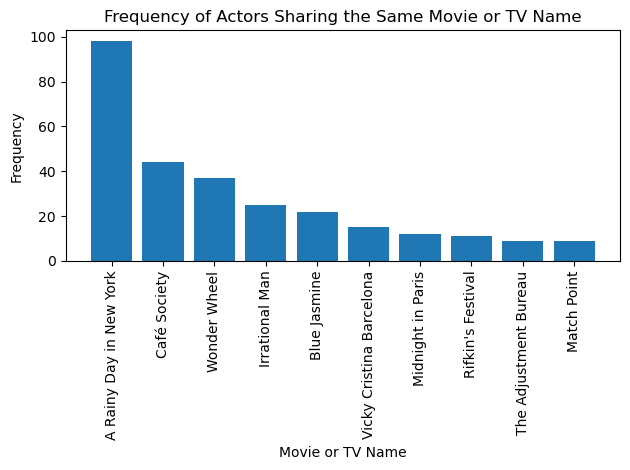
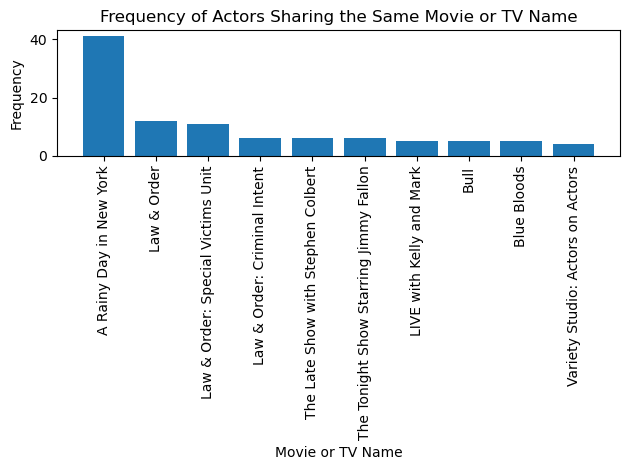
Built site for gh-pages

Changed region(s): [[0.0, 0.0, 0.9651, 0.983], [0.0603, 0.4468, 0.0905, 0.4766]]

diff --git a/posts/Web-Scraping/HW2.html b/posts/Web-Scraping/HW2.html
@@ -199,7 +199,7 @@ pre > code.sourceCode > span > a:first-child::before { text-decoration: underlin
 <p>In this post, I will be presenting my Scrapy project that is used to scrape my favoriate movie: A Rainy Day in New York - directed by Woody Allen.</p>
 <p>Please click the following link to see my project repository:</p>
 <p>// Note: The following code is used to display the hyperlink</p>
-<div id="e387916b" class="cell" data-execution_count="8">
+<div id="b509948c" class="cell" data-execution_count="8">
 <div class="sourceCode cell-code" id="cb1"><pre class="sourceCode python code-with-copy"><code class="sourceCode python"><span id="cb1-1"><a href="#cb1-1" aria-hidden="true" tabindex="-1"></a><span class="im">from</span> IPython.core.display <span class="im">import</span> display, HTML</span>
 <span id="cb1-2"><a href="#cb1-2" aria-hidden="true" tabindex="-1"></a>display(HTML(<span class="st">"""&lt;a href="https://github.com/Fishier1224/PIC16B_0/tree/main/TMDB_scraper"&gt;Project Repository&lt;/a&gt;"""</span>))</span></code><button title="Copy to Clipboard" class="code-copy-button"><i class="bi"></i></button></pre></div>
 <div class="cell-output cell-output-stderr">
@@ -216,7 +216,7 @@ pre > code.sourceCode > span > a:first-child::before { text-decoration: underlin
 <p>Inside the project folder, you will see another folder named as TMDB_scraper (along with scrapy.cfg). Click in the folder and open <strong>settings.py</strong>.</p>
 <p>In <strong>settings.py</strong>, you want to include the following code to avoid being blocked by the site because they notice you are scraping (403 error). You may need to first install scrapy-fake-useragent using the following command <strong>“pip install scrapy-fake-useragent”</strong>.</p>
 <p>The following code in settings.py turns off the built in UserAgentMiddleware and RetryMiddleware, then enables scrapy-fake-useragent’s RandomUserAgentMiddleware and RetryUserAgentMiddleware.</p>
-<div id="dbb53039" class="cell" data-execution_count="9">
+<div id="11733add" class="cell" data-execution_count="9">
 <div class="sourceCode cell-code" id="cb3"><pre class="sourceCode python code-with-copy"><code class="sourceCode python"><span id="cb3-1"><a href="#cb3-1" aria-hidden="true" tabindex="-1"></a>DOWNLOADER_MIDDLEWARES <span class="op">=</span> {</span>
 <span id="cb3-2"><a href="#cb3-2" aria-hidden="true" tabindex="-1"></a>    <span class="st">'scrapy.downloadermiddlewares.useragent.UserAgentMiddleware'</span>: <span class="va">None</span>,</span>
 <span id="cb3-3"><a href="#cb3-3" aria-hidden="true" tabindex="-1"></a>    <span class="st">'scrapy.downloadermiddlewares.retry.RetryMiddleware'</span>: <span class="va">None</span>,</span>
@@ -240,7 +240,7 @@ pre > code.sourceCode > span > a:first-child::before { text-decoration: underlin
 <h2 class="anchored" data-anchor-id="implementing-the-tmdbspider-class">Implementing the TmdbSpider class</h2>
 <p>First, <strong>import scrapy</strong>. Then create the class TmdbSpider calling “scrapy.Spider”, and assign the name to “tmdb_spider”.</p>
 <p>Next, under init, specify the start_url with <strong>“f”https://www.themoviedb.org/movie/{subdir}/““</strong>. Notice how the subdirectory is provided with f string. This means that we will need to use “scrapy crawl tmdb_spider -o movies.csv -a subdir=475303-a-rainy-day-in-new-york” when we are calling scrapy in the terminal later on.</p>
-<div id="029cca7d" class="cell">
+<div id="4ab17741" class="cell">
 <div class="sourceCode cell-code" id="cb4"><pre class="sourceCode python code-with-copy"><code class="sourceCode python"><span id="cb4-1"><a href="#cb4-1" aria-hidden="true" tabindex="-1"></a><span class="im">import</span> scrapy</span>
 <span id="cb4-2"><a href="#cb4-2" aria-hidden="true" tabindex="-1"></a></span>
 <span id="cb4-3"><a href="#cb4-3" aria-hidden="true" tabindex="-1"></a><span class="kw">class</span> TmdbSpider(scrapy.Spider):</span>
@@ -249,21 +249,21 @@ pre > code.sourceCode > span > a:first-child::before { text-decoration: underlin
 <span id="cb4-6"><a href="#cb4-6" aria-hidden="true" tabindex="-1"></a>    <span class="kw">def</span> <span class="fu">__init__</span>(<span class="va">self</span>, subdir<span class="op">=</span><span class="va">None</span>, <span class="op">*</span>args, <span class="op">**</span>kwargs):</span>
 <span id="cb4-7"><a href="#cb4-7" aria-hidden="true" tabindex="-1"></a>        <span class="va">self</span>.start_urls <span class="op">=</span> [<span class="ss">f"https://www.themoviedb.org/movie/</span><span class="sc">{</span>subdir<span class="sc">}</span><span class="ss">/"</span>]</span></code><button title="Copy to Clipboard" class="code-copy-button"><i class="bi"></i></button></pre></div>
 </div>
-<p>Now, our first <strong>parse</strong> function begins with the cast page of the movie that we are scraping. In this function, we yield the scrapy request to call another function <strong>parse_full_credits</strong>, which will be used to scape individual casts in the movie. Notice how the url is simply the start_url + /cast.</p>
-<div id="c54b17d3" class="cell" data-execution_count="12">
-<div class="sourceCode cell-code" id="cb5"><pre class="sourceCode python code-with-copy"><code class="sourceCode python"><span id="cb5-1"><a href="#cb5-1" aria-hidden="true" tabindex="-1"></a>    <span class="kw">def</span> parse(<span class="va">self</span>, response):</span>
+<p>Now, our first <strong>parse</strong> function begins with the cast page of the movie that we are scraping. In this function, we yield the scrapy request to call another function <strong>parse_full_credits</strong>, which will be used to scape individual casts in the movie. Notice how the url is simply the self.subdir + /cast.</p>
+<div id="febcdd4c" class="cell" data-execution_count="1">
+<div class="sourceCode cell-code" id="cb5"><pre class="sourceCode python code-with-copy"><code class="sourceCode python"><span id="cb5-1"><a href="#cb5-1" aria-hidden="true" tabindex="-1"></a>   <span class="kw">def</span> parse(<span class="va">self</span>, response):</span>
 <span id="cb5-2"><a href="#cb5-2" aria-hidden="true" tabindex="-1"></a>        <span class="co">"""</span></span>
 <span id="cb5-3"><a href="#cb5-3" aria-hidden="true" tabindex="-1"></a><span class="co">        The main parse function.</span></span>
 <span id="cb5-4"><a href="#cb5-4" aria-hidden="true" tabindex="-1"></a><span class="co">        sets the url to the cast page of the movie, then calls parse_full_credits to</span></span>
 <span id="cb5-5"><a href="#cb5-5" aria-hidden="true" tabindex="-1"></a><span class="co">        proceed to individual actors (casts) of the movie.</span></span>
 <span id="cb5-6"><a href="#cb5-6" aria-hidden="true" tabindex="-1"></a><span class="co">        return: N/A</span></span>
 <span id="cb5-7"><a href="#cb5-7" aria-hidden="true" tabindex="-1"></a><span class="co">        """</span></span>
-<span id="cb5-8"><a href="#cb5-8" aria-hidden="true" tabindex="-1"></a>        <span class="cf">yield</span> scrapy.Request(<span class="st">"https://www.themoviedb.org/movie/475303-a-rainy-day-in-new-york/cast"</span>,</span>
+<span id="cb5-8"><a href="#cb5-8" aria-hidden="true" tabindex="-1"></a>        <span class="cf">yield</span> scrapy.Request(<span class="ss">f"https://www.themoviedb.org/movie/</span><span class="sc">{</span><span class="va">self</span><span class="sc">.</span>subdir<span class="sc">}</span><span class="ss">/cast"</span>,</span>
 <span id="cb5-9"><a href="#cb5-9" aria-hidden="true" tabindex="-1"></a>                             callback<span class="op">=</span><span class="va">self</span>.parse_full_credits)</span></code><button title="Copy to Clipboard" class="code-copy-button"><i class="bi"></i></button></pre></div>
 </div>
-<p>Following, we have the <strong>parse_full_credits</strong> function. Since the cast actor links on the website html are placed within the li element (written like this in the html: <strong>ol class=“people credits”</strong>), we first select that portion and assign it to <strong>actors</strong>.</p>
+<p>Following, we have the <strong>parse_full_credits</strong> function. Since the cast actor links on the website html are placed within the li element (written like this in the html: <strong>ol.people.credits:not(.crew) li</strong>), we first select that portion and assign it to <strong>actors</strong> (note how we also did not(.crew) to avoid also getting the crew cast.</p>
 <p>Then we iterate through the actors to get individual links to the actor’s page using <strong>actor.css(‘a::attr(href)’).get()</strong>. Next, we check if we are on the actor’s page with <strong>if actor_link</strong> and calls to the function parse_actor_page for continued parsing.</p>
-<div id="66450624" class="cell" data-execution_count="13">
+<div id="e287afab" class="cell" data-execution_count="2">
 <div class="sourceCode cell-code" id="cb6"><pre class="sourceCode python code-with-copy"><code class="sourceCode python"><span id="cb6-1"><a href="#cb6-1" aria-hidden="true" tabindex="-1"></a>    <span class="kw">def</span> parse_full_credits(<span class="va">self</span>, response):</span>
 <span id="cb6-2"><a href="#cb6-2" aria-hidden="true" tabindex="-1"></a>        <span class="co">"""</span></span>
 <span id="cb6-3"><a href="#cb6-3" aria-hidden="true" tabindex="-1"></a><span class="co">        Parsing for actors in the movie, provides link for each.</span></span>
@@ -271,15 +271,15 @@ pre > code.sourceCode > span > a:first-child::before { text-decoration: underlin
 <span id="cb6-5"><a href="#cb6-5" aria-hidden="true" tabindex="-1"></a><span class="co">        calls parse_actor_page() when the actor page is reached.</span></span>
 <span id="cb6-6"><a href="#cb6-6" aria-hidden="true" tabindex="-1"></a><span class="co">        return: N/A</span></span>
 <span id="cb6-7"><a href="#cb6-7" aria-hidden="true" tabindex="-1"></a><span class="co">        """</span></span>
-<span id="cb6-8"><a href="#cb6-8" aria-hidden="true" tabindex="-1"></a>        actors <span class="op">=</span> response.css(<span class="st">'ol.people.credits li'</span>)  <span class="co"># Select the &lt;li&gt; elements containing actor information</span></span>
+<span id="cb6-8"><a href="#cb6-8" aria-hidden="true" tabindex="-1"></a>        actors <span class="op">=</span> response.css(<span class="st">'ol.people.credits:not(.crew) li'</span>)   <span class="co"># Select the &lt;li&gt; elements containing actor information</span></span>
 <span id="cb6-9"><a href="#cb6-9" aria-hidden="true" tabindex="-1"></a>        <span class="cf">for</span> actor <span class="kw">in</span> actors:</span>
 <span id="cb6-10"><a href="#cb6-10" aria-hidden="true" tabindex="-1"></a>            actor_link <span class="op">=</span> actor.css(<span class="st">'a::attr(href)'</span>).get()  <span class="co"># Extract the href attribute of the &lt;a&gt; tag</span></span>
 <span id="cb6-11"><a href="#cb6-11" aria-hidden="true" tabindex="-1"></a>            <span class="cf">if</span> actor_link:</span>
 <span id="cb6-12"><a href="#cb6-12" aria-hidden="true" tabindex="-1"></a>                <span class="cf">yield</span> scrapy.Request(response.urljoin(actor_link), callback<span class="op">=</span><span class="va">self</span>.parse_actor_page)</span></code><button title="Copy to Clipboard" class="code-copy-button"><i class="bi"></i></button></pre></div>
 </div>
 <p>This is our final parsing function - <strong>parse_actor_page</strong>. This function assumes that we are at an actor’s page, and begin by extracting the actor’s name. Notice how there is a split in the first line. This is because the website’s html includes an index number for actor’s name and we don’t want that.</p>
-<p>The second line selects the <strong>known_for</strong> section of the page, where all the actor’s well-known works are located. The third line then gets all the title of the well-known works undert the <strong>known_for_section</strong>. Finally, we iterate through the titles to yield a dictionary where the key is the actor’s name, and the value is the title of individual works that they are known for.</p>
-<div id="5aec5fe3" class="cell" data-execution_count="14">
+<p>The second line selects the <strong>acting</strong> section of the page, where all the actor’s acting works are located. The third line then specifies an xpath, while the four further specifies the xpath in line three to the titles containing “role”. Finally, we iterate through the titles to yield a dictionary where the key is the actor’s name, and the value is the title of individual works that they are known for.</p>
+<div id="4be8bfdf" class="cell" data-execution_count="3">
 <div class="sourceCode cell-code" id="cb7"><pre class="sourceCode python code-with-copy"><code class="sourceCode python"><span id="cb7-1"><a href="#cb7-1" aria-hidden="true" tabindex="-1"></a>    <span class="kw">def</span> parse_actor_page(<span class="va">self</span>, response):</span>
 <span id="cb7-2"><a href="#cb7-2" aria-hidden="true" tabindex="-1"></a>        <span class="co">"""</span></span>
 <span id="cb7-3"><a href="#cb7-3" aria-hidden="true" tabindex="-1"></a><span class="co">        Assumes at an actor page. Extracts the actor's name using title::text.</span></span>
@@ -287,10 +287,11 @@ pre > code.sourceCode > span > a:first-child::before { text-decoration: underlin
 <span id="cb7-5"><a href="#cb7-5" aria-hidden="true" tabindex="-1"></a><span class="co">        iterates through the title to yield a dictionary with actor's name and the name of their work</span></span>
 <span id="cb7-6"><a href="#cb7-6" aria-hidden="true" tabindex="-1"></a><span class="co">        """</span></span>
 <span id="cb7-7"><a href="#cb7-7" aria-hidden="true" tabindex="-1"></a>        actor_name <span class="op">=</span> response.css(<span class="st">'title::text'</span>).get().split(<span class="st">' — '</span>)[<span class="dv">0</span>] <span class="co"># Split to get rid of following number index</span></span>
-<span id="cb7-8"><a href="#cb7-8" aria-hidden="true" tabindex="-1"></a>        known_for_section <span class="op">=</span> response.css(<span class="st">'#known_for'</span>)</span>
-<span id="cb7-9"><a href="#cb7-9" aria-hidden="true" tabindex="-1"></a>        titles <span class="op">=</span> known_for_section.css(<span class="st">'.title bdi::text'</span>).getall()</span>
-<span id="cb7-10"><a href="#cb7-10" aria-hidden="true" tabindex="-1"></a>        <span class="cf">for</span> title <span class="kw">in</span> titles:</span>
-<span id="cb7-11"><a href="#cb7-11" aria-hidden="true" tabindex="-1"></a>            <span class="cf">yield</span> {<span class="st">"actor"</span>: actor_name, <span class="st">'movie_or_TV_name'</span>: title}</span></code><button title="Copy to Clipboard" class="code-copy-button"><i class="bi"></i></button></pre></div>
+<span id="cb7-8"><a href="#cb7-8" aria-hidden="true" tabindex="-1"></a>        acting_section <span class="op">=</span> response.css(<span class="st">'h3:contains("Acting")'</span>)</span>
+<span id="cb7-9"><a href="#cb7-9" aria-hidden="true" tabindex="-1"></a>        table <span class="op">=</span> acting_section.xpath(<span class="st">'./following-sibling::table'</span>).get()</span>
+<span id="cb7-10"><a href="#cb7-10" aria-hidden="true" tabindex="-1"></a>        titles <span class="op">=</span> scrapy.Selector(text<span class="op">=</span>table).xpath(<span class="st">'.//td[contains(@class, "role")]/a/bdi/text()'</span>).getall()</span>
+<span id="cb7-11"><a href="#cb7-11" aria-hidden="true" tabindex="-1"></a>        <span class="cf">for</span> title <span class="kw">in</span> titles:</span>
+<span id="cb7-12"><a href="#cb7-12" aria-hidden="true" tabindex="-1"></a>            <span class="cf">yield</span> {<span class="st">"actor"</span>: actor_name, <span class="st">'movie_or_TV_name'</span>: title}</span></code><button title="Copy to Clipboard" class="code-copy-button"><i class="bi"></i></button></pre></div>
 </div>
 </section>
 <section id="running-the-spider" class="level2">
@@ -301,14 +302,14 @@ pre > code.sourceCode > span > a:first-child::before { text-decoration: underlin
 <section id="some-visualization" class="level2">
 <h2 class="anchored" data-anchor-id="some-visualization">Some Visualization</h2>
 <p>Now that we have the results.csv, read the csv file using pandas:</p>
-<div id="b6703bf8" class="cell" data-execution_count="27">
+<div id="a2cb5082" class="cell" data-execution_count="4">
 <div class="sourceCode cell-code" id="cb8"><pre class="sourceCode python code-with-copy"><code class="sourceCode python"><span id="cb8-1"><a href="#cb8-1" aria-hidden="true" tabindex="-1"></a><span class="im">import</span> pandas <span class="im">as</span> pd</span>
 <span id="cb8-2"><a href="#cb8-2" aria-hidden="true" tabindex="-1"></a>results <span class="op">=</span> pd.read_csv(<span class="st">"results.csv"</span>)</span></code><button title="Copy to Clipboard" class="code-copy-button"><i class="bi"></i></button></pre></div>
 </div>
 <p>Here is a overview of what the result looks like using “results.head()”:</p>
-<div id="616db418" class="cell" data-execution_count="28">
+<div id="10f6a73c" class="cell" data-execution_count="5">
 <div class="sourceCode cell-code" id="cb9"><pre class="sourceCode python code-with-copy"><code class="sourceCode python"><span id="cb9-1"><a href="#cb9-1" aria-hidden="true" tabindex="-1"></a>results.head()</span></code><button title="Copy to Clipboard" class="code-copy-button"><i class="bi"></i></button></pre></div>
-<div class="cell-output cell-output-display" data-execution_count="28">
+<div class="cell-output cell-output-display" data-execution_count="5">
 <div>
 
 
@@ -353,27 +354,27 @@ pre > code.sourceCode > span > a:first-child::before { text-decoration: underlin
 </div>
 </div>
 <p>Now we are going to use matplotlib for an interesting visualization. Begin by importing matplotlib:</p>
-<div id="0933b34b" class="cell" data-execution_count="29">
+<div id="ae48331e" class="cell" data-execution_count="6">
 <div class="sourceCode cell-code" id="cb10"><pre class="sourceCode python code-with-copy"><code class="sourceCode python"><span id="cb10-1"><a href="#cb10-1" aria-hidden="true" tabindex="-1"></a><span class="im">import</span> matplotlib.pyplot <span class="im">as</span> plt</span></code><button title="Copy to Clipboard" class="code-copy-button"><i class="bi"></i></button></pre></div>
 </div>
 <p>Now we create a new dataframe based on the <strong>results</strong> dataframe, named <strong>frequency_df</strong>. This line groups the results dataframe by ‘movie_or_TV_name’ and count the number of unique ‘actor’ values (the frequency of actors that shares the same ‘movie_or_TV_name’).</p>
-<div id="2bdd956b" class="cell" data-execution_count="30">
+<div id="cb8c53f8" class="cell" data-execution_count="7">
 <div class="sourceCode cell-code" id="cb11"><pre class="sourceCode python code-with-copy"><code class="sourceCode python"><span id="cb11-1"><a href="#cb11-1" aria-hidden="true" tabindex="-1"></a>frequency_df <span class="op">=</span> results.groupby(<span class="st">'movie_or_TV_name'</span>)[<span class="st">'actor'</span>].nunique().reset_index()</span></code><button title="Copy to Clipboard" class="code-copy-button"><i class="bi"></i></button></pre></div>
 </div>
 <p>Here we rename the columns of our new data frame to “actor” and “frequency”. Then the next line sorts the <strong>frequency_df</strong> by the ‘frequency’ column in descending order (organizing the movies with the highest frequency to the top of the dataframe).</p>
 <p>The third line rests the index to make the dataframe more presentable.</p>
-<div id="b3f74fce" class="cell" data-execution_count="31">
+<div id="cfa4f59b" class="cell" data-execution_count="8">
 <div class="sourceCode cell-code" id="cb12"><pre class="sourceCode python code-with-copy"><code class="sourceCode python"><span id="cb12-1"><a href="#cb12-1" aria-hidden="true" tabindex="-1"></a>frequency_df <span class="op">=</span> frequency_df.rename(columns<span class="op">=</span>{<span class="st">'actor'</span>: <span class="st">'frequency'</span>})</span>
 <span id="cb12-2"><a href="#cb12-2" aria-hidden="true" tabindex="-1"></a>frequency_df <span class="op">=</span> frequency_df.sort_values(<span class="st">'frequency'</span>, ascending<span class="op">=</span><span class="va">False</span>)</span>
 <span id="cb12-3"><a href="#cb12-3" aria-hidden="true" tabindex="-1"></a>frequency_df <span class="op">=</span> frequency_df.reset_index(drop<span class="op">=</span><span class="va">True</span>)</span></code><button title="Copy to Clipboard" class="code-copy-button"><i class="bi"></i></button></pre></div>
 </div>
 <p>Next, to prepare for better plotting, we specify the <strong>frequency_df</strong> to only include the top 10 highest frequency movies.</p>
-<div id="12269114" class="cell" data-execution_count="32">
+<div id="fe47a58e" class="cell" data-execution_count="9">
 <div class="sourceCode cell-code" id="cb13"><pre class="sourceCode python code-with-copy"><code class="sourceCode python"><span id="cb13-1"><a href="#cb13-1" aria-hidden="true" tabindex="-1"></a>frequency_df <span class="op">=</span> frequency_df.head(<span class="dv">10</span>)</span></code><button title="Copy to Clipboard" class="code-copy-button"><i class="bi"></i></button></pre></div>
 </div>
 <p>Now we generate the bar chart! First call the x and y variables as “movie_or_TV_name” and “frequency” in the <strong>frequency_df</strong> dataframe. Then, label the x and y axis as “Movie or TV Name” and “Frequency”. Finally, we label the plot’s title and set the x-axis ticks as “rotation=90”.</p>
 <p>At last we display the chart!</p>
-<div id="1b32fa8e" class="cell" data-execution_count="33">
+<div id="bdaa4349" class="cell" data-execution_count="10">
 <div class="sourceCode cell-code" id="cb14"><pre class="sourceCode python code-with-copy"><code class="sourceCode python"><span id="cb14-1"><a href="#cb14-1" aria-hidden="true" tabindex="-1"></a>plt.bar(frequency_df[<span class="st">'movie_or_TV_name'</span>], frequency_df[<span class="st">'frequency'</span>])</span>
 <span id="cb14-2"><a href="#cb14-2" aria-hidden="true" tabindex="-1"></a>plt.xlabel(<span class="st">'Movie or TV Name'</span>)</span>
 <span id="cb14-3"><a href="#cb14-3" aria-hidden="true" tabindex="-1"></a>plt.ylabel(<span class="st">'Frequency'</span>)</span>

diff --git a/index.html b/index.html
@@ -205,7 +205,7 @@ window.Quarto = {
 
 <div class="quarto-listing quarto-listing-container-default" id="listing-listing">
 <div class="list quarto-listing-default">
-<div class="quarto-post image-right" data-index="0" data-categories="HW2,scrapy,pandas,matplotlib" data-listing-date-sort="1706774400000" data-listing-file-modified-sort="1707087436628" data-listing-date-modified-sort="NaN" data-listing-reading-time-sort="4" data-listing-word-count-sort="749">
+<div class="quarto-post image-right" data-index="0" data-categories="HW2,scrapy,pandas,matplotlib" data-listing-date-sort="1706774400000" data-listing-file-modified-sort="1707371590304" data-listing-date-modified-sort="NaN" data-listing-reading-time-sort="4" data-listing-word-count-sort="767">
 <div class="thumbnail">
 <p><a href="./posts/Web-Scraping/HW2.html" class="no-external"></a></p><a href="./posts/Web-Scraping/HW2.html" class="no-external">
 <p class="card-img-top"><img src="posts/Web-Scraping/HW2_files/figure-html/cell-14-output-1.png"  class="thumbnail-image card-img"/></p>
